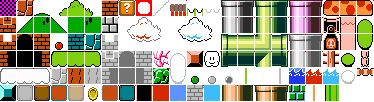
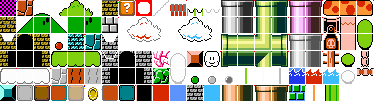
Updated castle bricks.

diff --git a/README.md b/README.md
@@ -27,3 +27,8 @@ Koopa and Red Koopa
 Modified from Monsterboy in Wonder World mockup assets by surt
 https://opengameart.org/content/monsterboy-in-wonder-world-mockup-assets
 License: CC-BY-SA 3.0
+
+Castle bricks
+Modified from RPG Tile Set 'Military Base' NES by Chasersgaming (https://chasersgaming.itch.io/)
+https://opengameart.org/content/rpg-tile-set-military-base-nes
+License: CC0
